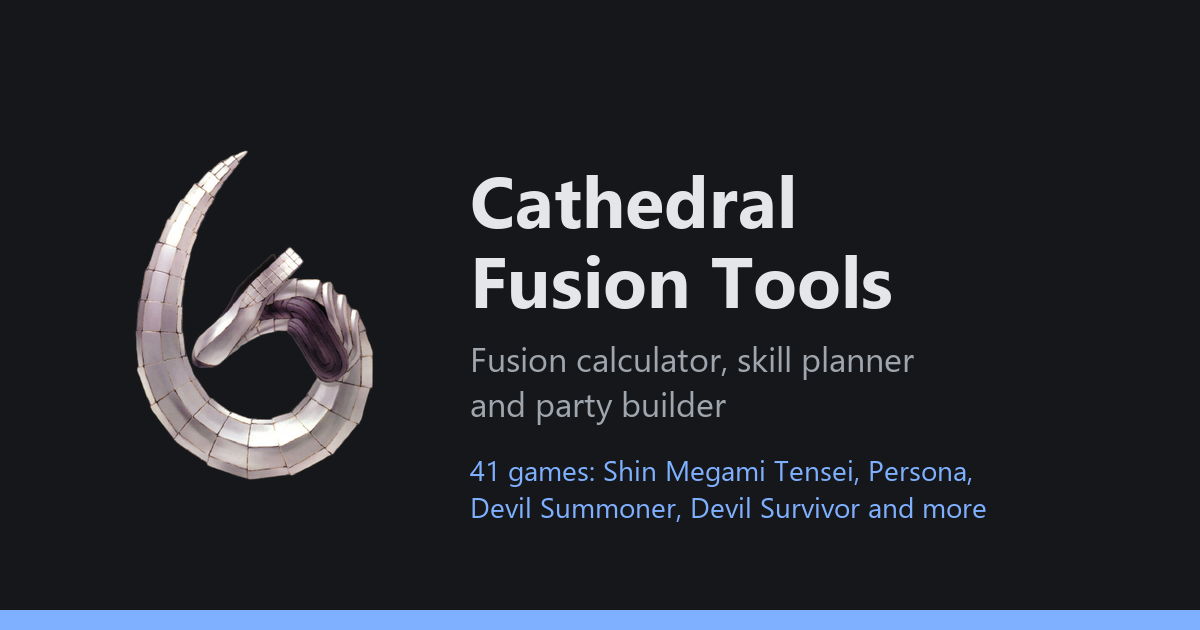
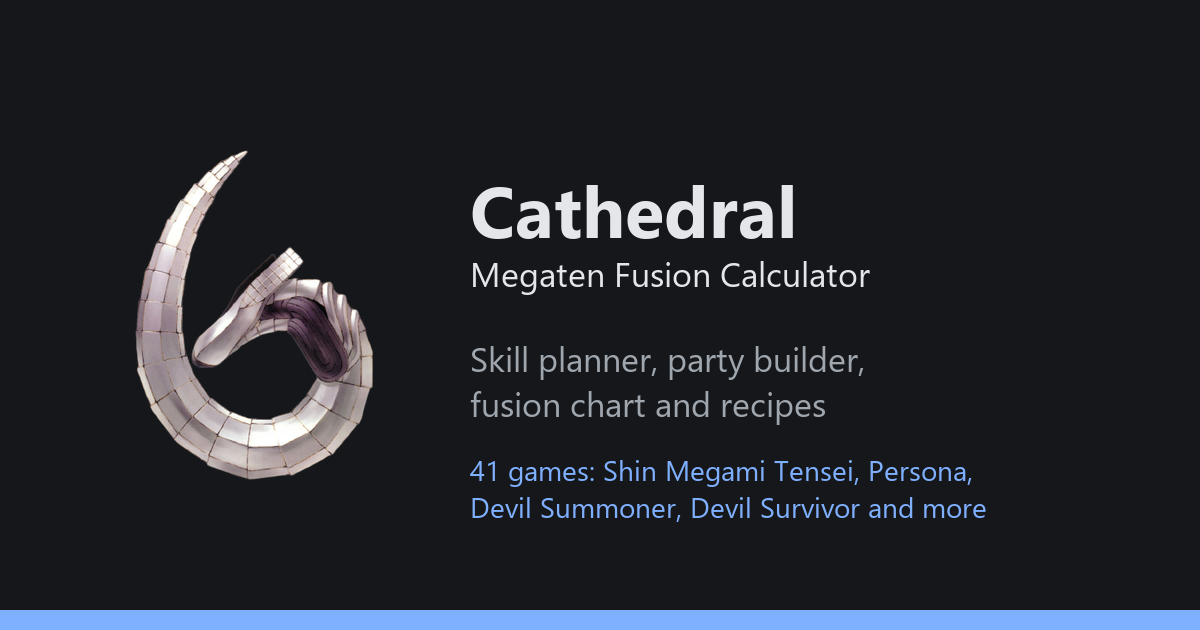
chore: name the site cathedral, megaten fusion calculator

diff --git a/app/main.tsx b/app/main.tsx
@@ -1090,8 +1090,8 @@ function Home() {
       <header class="home-head">
         <img src="logo.png" alt="" width="72" height="72" />
         <div>
-          <h1>Cathedral Fusion Tools</h1>
-          <p class="lede">Fusion calculator, skill planner and party builder for Megami Tensei games.</p>
+          <h1>Cathedral</h1>
+          <p class="lede">Megaten fusion calculator, skill planner and party builder for 41 games.</p>
         </div>
       </header>
       <Search />
@@ -1170,7 +1170,7 @@ function App() {
   useEffect(() => {
     const labels: { [v: string]: string } = { list: 'Compendium', skills: 'Skills', planner: 'Skill planner', party: 'Party', unlocks: 'Unlocks', chart: 'Fusion chart' };
     const page = !eng ? '' : route.view === 'demon' ? eng.ix.bySlug[route.arg!] : route.view === 'skill' ? eng.ix.skillBySlug[route.arg!] : labels[route.view];
-    document.title = route.view === 'home' ? 'Cathedral Fusion Tools' : [page, meta.name, 'Cathedral'].filter(Boolean).join(' | ');
+    document.title = route.view === 'home' ? 'Cathedral: Megaten Fusion Calculator for SMT, Persona and more' : [page, meta.name, 'Cathedral'].filter(Boolean).join(' | ');
   }, [route, eng]);
 
   let body: any = route.view === 'home' ? <Home /> : <div class="loading"><span class="spin" aria-hidden="true" />Loading {meta.name}</div>;

diff --git a/make-images.py b/make-images.py
@@ -34,10 +34,10 @@ d = ImageDraw.Draw(og)
 bold = ImageFont.truetype('C:/Windows/Fonts/segoeuib.ttf', 72)
 reg = ImageFont.truetype('C:/Windows/Fonts/segoeui.ttf', 34)
 small = ImageFont.truetype('C:/Windows/Fonts/segoeui.ttf', 28)
-d.text((470, 150), 'Cathedral', font=bold, fill=INK)
-d.text((470, 230), 'Fusion Tools', font=bold, fill=INK)
-d.text((470, 335), 'Fusion calculator, skill planner', font=reg, fill=MUTED)
-d.text((470, 380), 'and party builder', font=reg, fill=MUTED)
+d.text((470, 160), 'Cathedral', font=bold, fill=INK)
+d.text((470, 250), 'Megaten Fusion Calculator', font=reg, fill=INK)
+d.text((470, 335), 'Skill planner, party builder,', font=reg, fill=MUTED)
+d.text((470, 380), 'fusion chart and recipes', font=reg, fill=MUTED)
 d.text((470, 450), '41 games: Shin Megami Tensei, Persona,', font=small, fill=LINK)
 d.text((470, 487), 'Devil Summoner, Devil Survivor and more', font=small, fill=LINK)
 d.rectangle((0, 610, 1200, 630), fill=LINK)

diff --git a/README.md b/README.md
@@ -1,6 +1,7 @@
-# Cathedral Fusion Tools
+# Cathedral: Megaten Fusion Calculator
 
-Fusion calculator, skill planner and party builder for 41 Megami Tensei games.
+Fusion calculator, skill planner and party builder for 41 Megami Tensei games:
+Shin Megami Tensei, Persona, Devil Summoner, Devil Survivor and more. Named after the Cathedral of Shadows.
 
 **Use it:** https://anderson3x11.github.io/cathedral/
 
